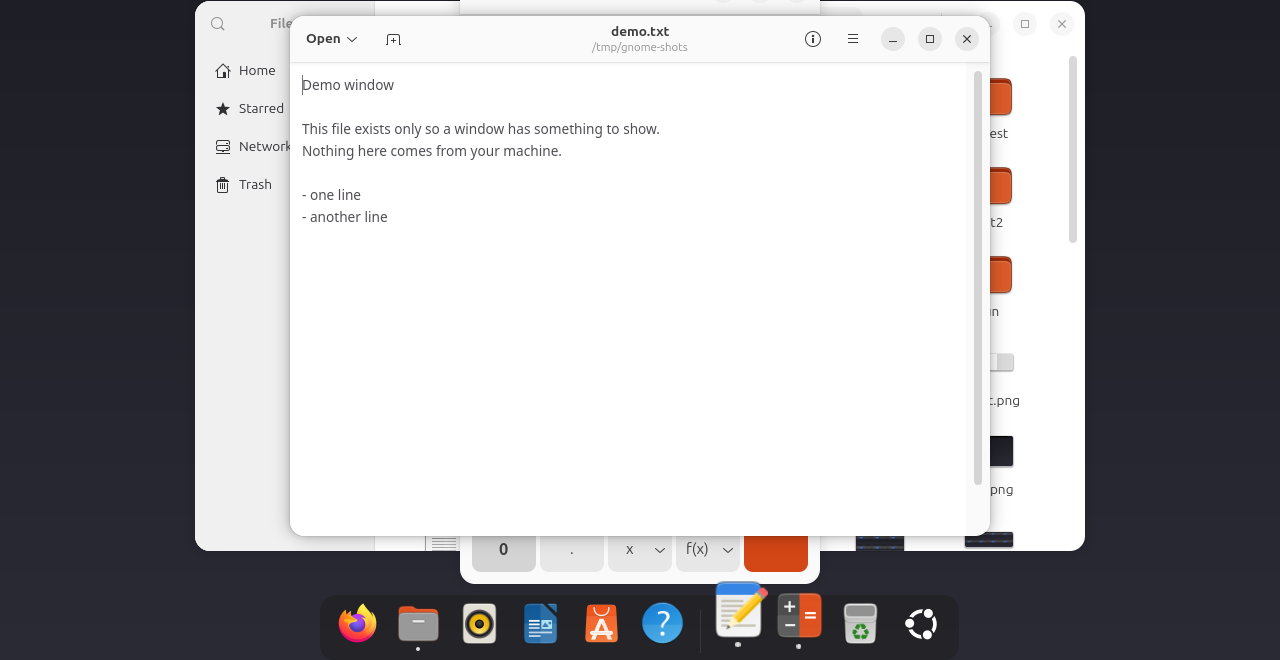
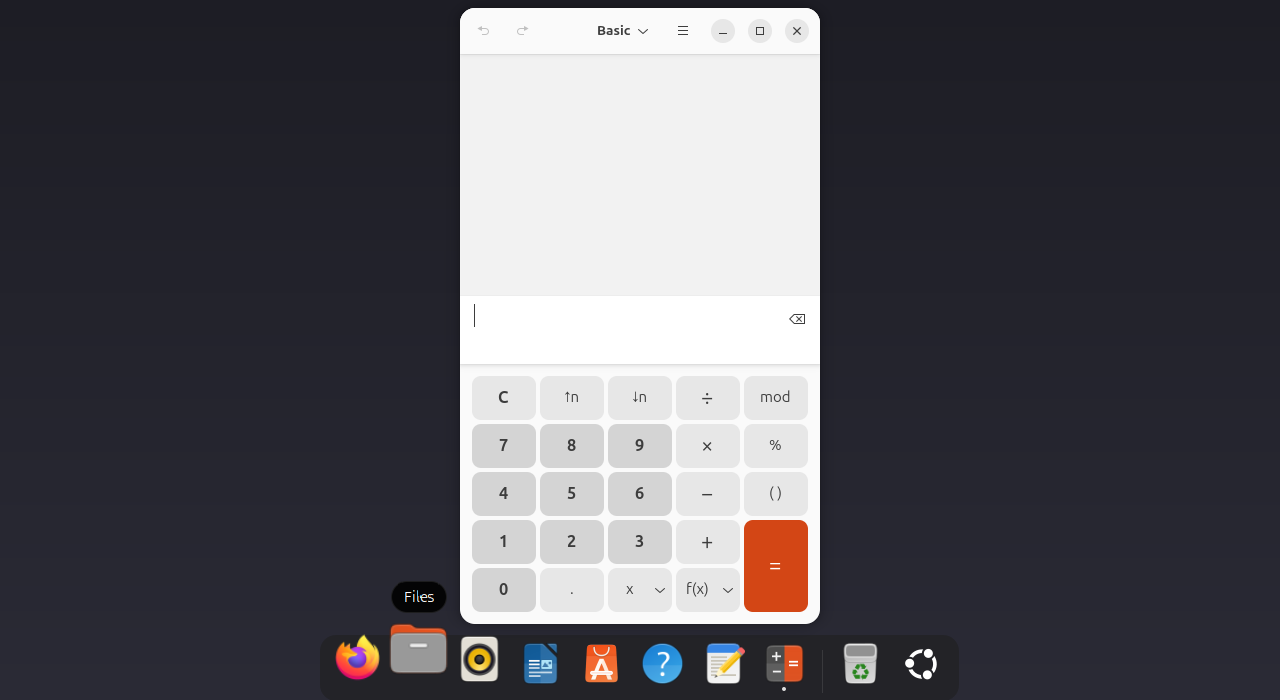
docs: add the launch, minimize and restore to the dock GIF
The clip now carries three actions in one take: the pointer sweeps along the dock so every icon magnifies under it, a long press lifts the folder icon and carries it back and forth before dropping it in a slot it did not start in, and a click on the calculator opens the app — a second click pours the window into that icon, a third click streams it back out. The still was recaptured from the same session so both images show the same dock.

diff --git a/README.md b/README.md
@@ -17,7 +17,7 @@ A macOS-style dock for GNOME Shell with magnification, animations, dodge, keyboa
 
 **Where to look** — See [AGENTS.md](AGENTS.md) and [MAINTENANCE.md](MAINTENANCE.md).
 
-<p align="center"><img src="docs/screenshots/overview.png" alt="The dock with the icons under the pointer magnified" width="900"></p>
+<p align="center"><img src="docs/screenshots/overview.png" alt="The dock with the folder icon magnified under the pointer and a window open above it" width="900"></p>
 
 ## 📖 About
 
@@ -39,9 +39,9 @@ It is **not** affiliated with or endorsed by the upstream authors. The fork keep
 - **Trash button** that behaves like an application icon — its own previews, running dots and windows, its own minimize/restore landing point — while staying separate from the Files icon.
 - **Genie minimize/restore** — windows pour into, and stream back out of, their **real dock icon** from any dock edge, merging the macOS Genie animation.
 
-<p align="center"><img src="docs/screenshots/demo.gif" alt="The pointer magnifying dock icons, then dragging one to a new slot" width="900"></p>
+<p align="center"><img src="docs/screenshots/demo.gif" alt="The pointer magnifying dock icons, dragging one to a new slot, and a window being poured into and out of its icon" width="900"></p>
 
-<p align="center"><em><b>In the clip:</b> the pointer sweeps along the dock and every icon magnifies as it passes under it; then a long press on the Firefox icon picks it up and a drag to the right drops it in the fourth slot. <b>What it shows:</b> macOS-style magnification that follows the pointer, and a dock you reorder by dragging an icon — no settings dialog involved.</em></p>
+<p align="center"><em><b>In the clip:</b> the pointer sweeps along the dock and every icon magnifies as it passes under it; a long press then lifts the folder icon, carries it back and forth and drops it in a slot it did not start in; a click on the calculator opens the app, a second click pours the window into that icon, and a third click streams it back out. <b>What it shows:</b> magnification that follows the pointer, a dock you reorder by dragging, and the Genie minimize/restore animation — none of it behind a settings dialog.</em></p>
 
 ## 🧰 Prerequisites
 

diff --git a/README.zh-CN.md b/README.zh-CN.md
@@ -17,7 +17,7 @@
 
 **去哪看** — 见 [AGENTS.md](AGENTS.md) 与 [MAINTENANCE.md](MAINTENANCE.md)。
 
-<p align="center"><img src="docs/screenshots/overview.png" alt="指针下方图标被放大的程序坞" width="900"></p>
+<p align="center"><img src="docs/screenshots/overview.png" alt="指针下文件夹图标被放大的程序坞，上方开着一个窗口" width="900"></p>
 
 ## 📖 项目说明
 
@@ -39,9 +39,9 @@
 - **垃圾桶按钮** —— 行为与应用图标一致：自己的预览、自己的运行指示点、自己的窗口，最小化/还原也落在它自己身上；同时与 Files 图标彼此独立。
 - **Genie 最小化/还原** —— 窗口从任意 Dock 边缘流进/流出其**真实 Dock 图标**，即合并进来的 macOS Genie 动画。
 
-<p align="center"><img src="docs/screenshots/demo.gif" alt="指针放大程序坞图标，再拖动其中一个换位" width="900"></p>
+<p align="center"><img src="docs/screenshots/demo.gif" alt="指针放大程序坞图标、拖动换位，窗口被吸入图标又流回" width="900"></p>
 
-<p align="center"><em><b>动图内容：</b>指针沿程序坞扫过，经过的图标逐个放大；随后长按 Firefox 图标把它拾起，向右拖动放到第四个位置。<b>展示的功能：</b>跟随指针的 macOS 式放大，以及直接拖动图标调整程序坞顺序——全程不用打开设置。</em></p>
+<p align="center"><em><b>动图内容：</b>指针沿程序坞扫过，经过的图标逐个放大；随后长按文件夹图标把它拾起，来回拖动后放进一个不是原来位置的槽位；点击计算器图标打开应用，再点一次窗口被吸进那个图标，第三次点击又流回屏幕。<b>展示的功能：</b>跟随指针的放大、拖动即可重排的程序坞，以及 Genie 最小化／还原动画——全程不用打开设置。</em></p>
 
 ## 🧰 前置依赖
 
